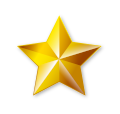
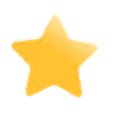
Changed star image, Added more asteroids

Changed region(s): [[0.0796, 0.1062, 0.8761, 0.8761]]

diff --git a/src/game.js b/src/game.js
@@ -60,10 +60,14 @@ export function Game(c, w, h) {
     this.spaceshipHurt_img.src = 'img/spaceship_hurt.png';
     this.spaceshipUsed = this.spaceship_img;
 
-    this.asteroids_img = [null, null, null, null].map((_) => new Image());
+    this.asteroids_img = Array(8)
+        .fill(null)
+        .map((_) => new Image());
     this.asteroids_img.forEach((element, index) => {
         element.src = 'img/asteroid' + String(index + 1) + '.png';
+        console.log(index, element.src);
     });
+    console.log(this.asteroids_img);
 
     this.lifes_img = [null, null, null, null].map((_) => new Image());
     this.lifes_img.forEach((element, index) => {
@@ -212,7 +216,7 @@ Game.prototype.spawnAsteroidWithProb = function () {
                 y: this.asteroidSpeed.y,
             },
             scale: Math.random() * (1.25 - 0.75) + 0.75,
-            type: Math.floor(Math.random() * 3) + 1,
+            type: Math.floor(Math.random() * 7) + 1,
         };
         this.asteroids.push(asteroid);
     }
@@ -440,7 +444,7 @@ Game.prototype.drawAsteroids = function () {
 Game.prototype.drawGoodies = function () {
     for (var i = 0; i < this.goodies.length; i++) {
         var goodie = this.goodies[i];
-        ctx.drawImage(this.goodie_img, goodie.x, goodie.y, 90, 90);
+        ctx.drawImage(this.goodie_img, goodie.x, goodie.y, 75, 75);
     }
 };
 
